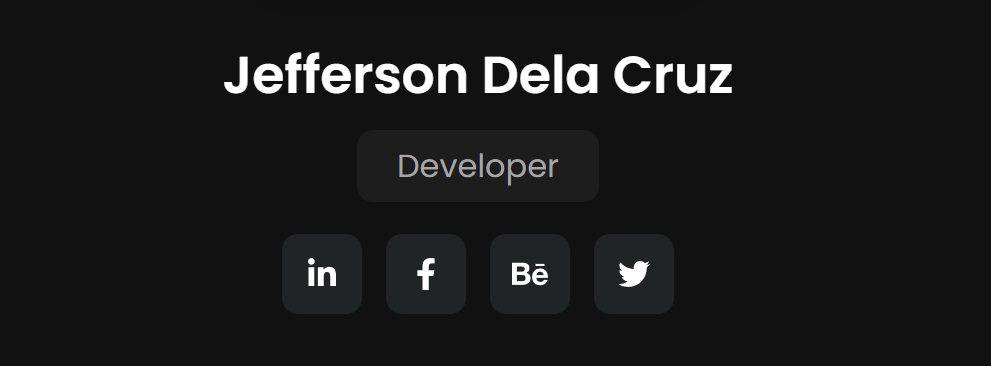
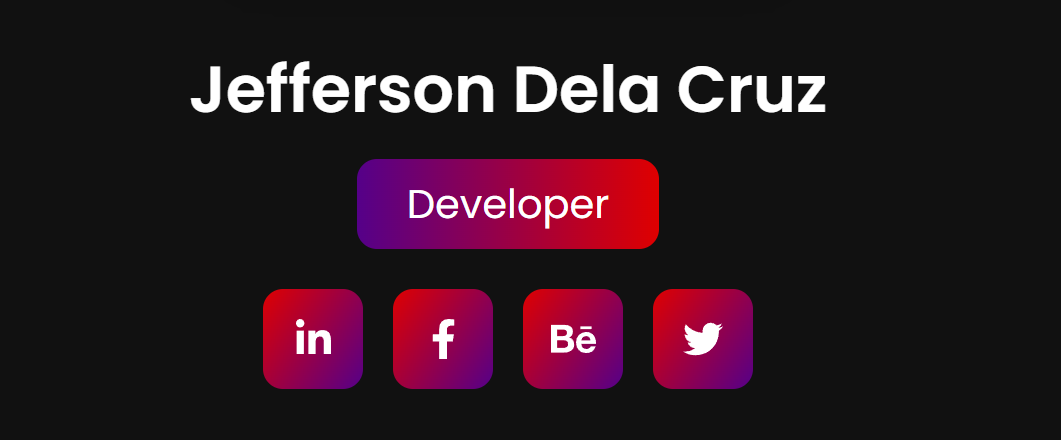
socmed rev

Changed region(s): [[0.2422, 0.6311, 0.7265, 0.9016], [0.1816, 0.1202, 0.7871, 0.2705], [0.333, 0.3607, 0.6357, 0.571]]

diff --git a/public/index.html b/public/index.html
@@ -11,8 +11,8 @@
     <!-- SOCIAL MEDIA IMAGE -->
     <meta property="og:image" content="https://idevl.github.io/dizi/img/meta/socmed.png">
     <meta property="og:image:type" content="image/png">
-    <meta property="og:image:width" content="991">
-    <meta property="og:image:height" content="366">
+    <meta property="og:image:width" content="1061">
+    <meta property="og:image:height" content="440">
 
     <!-- FONT POPPINS -->
     <link href="https://fonts.googleapis.com/css2?family=Poppins:ital,wght@0,200;0,300;0,400;0,500;0,600;0,700;1,400;1,500;1,600&amp;family=Roboto+Slab:wght@300;400;500;600;700&amp;display=swap" rel="stylesheet">
